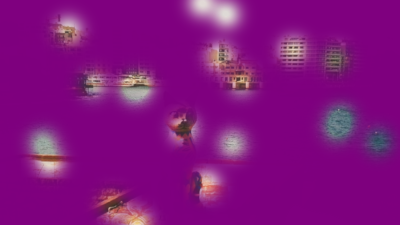
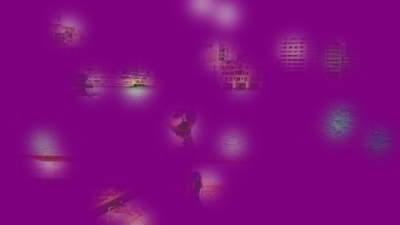
implement convolution method and mean merging

diff --git a/bubbles.py b/bubbles.py
@@ -1,9 +1,10 @@
 from PIL import Image
 import numpy as np
 from scipy.stats import norm
+from scipy.ndimage import gaussian_filter
 from skimage.morphology import binary_dilation
 
-def build_mask(mu_y, mu_x, sigma, sh, scale, max_merge):
+def build_mask(mu_y, mu_x, sigma, sh, scale, sum_merge):
     """Build a Bubbles mask which can be applied to an image of shape `sh`. Returns a matrix for the mask.
     
      Keyword arguments:
@@ -12,7 +13,7 @@ def build_mask(mu_y, mu_x, sigma, sh, scale, max_merge):
     sigma -- array of sigmas for the spread of the bubbles (should be same len as mu_y)
     sh -- shape (np.shape) of the desired mask (usually the shape of the respective image)
     scale -- should densities' maxima be consistently scaled across different sigma values?
-    max_merge -- should merges, where bubbles overlap, be completed using a simple max of the two bubbles? If False, distributions are instead summed, and then thresholded to the maxima of the pre-merged bubbles.
+    sum_merge -- should merges, where bubbles overlap, be completed using a simple sum of the bubbles, thresholded to the maxima of the pre-merged bubbles? If False (the default), densities are instead averaged (mean).
     """
     # check lengths match and are all 1d
     gauss_pars_sh = [np.shape(x) for x in [mu_y, mu_x, sigma]]
@@ -31,23 +32,64 @@ def build_mask(mu_y, mu_x, sigma, sh, scale, max_merge):
         for i in range(len(mu_y))
         ]
     
-    # scale if requested
+    # scale all bubbles consistently if requested
     if scale:
         dists = [x/np.max(x) for x in dists]
     
-    if max_merge:
-        # build mask from list of bubbles
-        mask = np.max(dists, axis=0)
-        
-    else:
+    if sum_merge:
         # sum the distributions, then threshold the maximum to the maximum peak
         mask = np.sum(dists, axis=0)
         mask[mask>np.max(dists)] = np.max(dists)
-        
-    # scale density to within [0, 1] (will already be scaled to [0, 1] above if scale==True)
-    if not scale:
-        mask /= np.max(mask)
+
+    else:
+        # merge using average of densities
+        mask = np.mean(dists, axis=0)
     
+    # scale density to within [0, 1] (will already be scaled to [0, 1] above if scale==True)
+    mask /= np.max(mask)
+    
+    return(mask)
+
+def build_conv_mask(mu_y, mu_x, sigma, sh):
+    """
+    Build a Bubbles mask via convolution which can be applied to an image of shape `sh`. Returns a matrix for the mask.
+    Unlike build_mask(), build_conv_mask() requires that all sigma values are equal.
+    
+     Keyword arguments:
+    mu_y -- the locations of the bubbles centres, in numpy axis 0. Must be integers (will be rounded otherwise)
+    mu_x -- the locations of the bubbles centres, in numpy axis 1 (should be same len as mu_y). Must be integers (will be rounded otherwise)
+    sigma -- a single value for sigma, or else an array of sigmas for the spread of the bubbles (in which case, should be same len as mu_y, and should all be identical)
+    sh -- shape (np.shape) of the desired mask (usually the shape of the respective image)
+    """
+    # if sigma is given as a list, get the single value
+    if isinstance(sigma, list) | isinstance(sigma, np.ndarray):
+        sigma = np.unique(sigma)
+    
+    # if more than one sigma value, give error
+    if len(sigma)>1:
+        ValueError('for the convolution approach, sigma should be of length one, or else all values should be identical')
+
+    # check lengths for mu match and are both 1d
+    gauss_pars_sh = [np.shape(x) for x in [mu_y, mu_x]]
+    gauss_pars_n_dims = [len(x) for x in gauss_pars_sh]
+    
+    if len(set(gauss_pars_sh))!=1 or any(gauss_pars_n_dims)!=1:
+        ValueError('mu_y and mu_x should both be 1-dimensional arrays of identical length')
+
+    # generate the pre-convolution mask
+    mask_preconv = np.zeros(sh)
+
+    mask_preconv[
+        np.array(mu_y).astype(int),
+        np.array(mu_x).astype(int)
+        ] = 1
+
+    # apply the filter via scipy.signal.gaussian_filter (uses a series of 1d convolutions)
+    mask = gaussian_filter(mask_preconv, sigma=float(sigma), mode='constant', cval=0.0)
+
+    # scale the mask
+    mask /= np.max(mask)
+
     return(mask)
 
 
@@ -84,7 +126,7 @@ def apply_mask(im, mask, bg=0):
     return(im_out_mat)
 
 
-def bubbles_mask (im, mu_x=None, mu_y=None, sigma=np.repeat(25, repeats=5), bg=0, scale=True, max_merge=False):
+def bubbles_mask (im, mu_x=None, mu_y=None, sigma=np.repeat(25, repeats=5), bg=0, scale=True, sum_merge=False):
     """Apply the bubbles mask to a given PIL image. Returns the edited PIL image, the generated mask, mu_y, mu_x, and sigma.
     
      Keyword arguments:
@@ -94,7 +136,7 @@ def bubbles_mask (im, mu_x=None, mu_y=None, sigma=np.repeat(25, repeats=5), bg=0
     sigma -- array of sigmas for the spread of the bubbles. `n` is inferred from this array
     bg -- value for the background, from 0 to 255. Can also be an array of 3 values from 0 to 255, for RGB, or 4 values, for RGBA
     scale -- should densities' maxima be consistently scaled across different sigma values?
-    max_merge -- should merges, where bubbles overlap, be completed using a simple max of the two bubbles? If False (the default), distributions are instead summed, and then thresholded to the maxima of the pre-merged bubbles.
+    sum_merge -- should merges, where bubbles overlap, be completed using a simple sum of the bubbles, thresholded to the maxima of the pre-merged bubbles? If False (the default), densities are instead averaged (mean).
     """
     
     n = len(sigma)  # get n bubbles
@@ -108,7 +150,7 @@ def bubbles_mask (im, mu_x=None, mu_y=None, sigma=np.repeat(25, repeats=5), bg=0
         mu_x = np.random.uniform(low=0, high=sh[1], size=n)
     
     # build mask
-    mask = build_mask(mu_y=mu_y, mu_x=mu_x, sigma=sigma, sh=sh, scale=scale, max_merge=max_merge)
+    mask = build_mask(mu_y=mu_y, mu_x=mu_x, sigma=sigma, sh=sh, scale=scale, sum_merge=sum_merge)
     
     # apply mask
     im_out_mat = apply_mask(im=im, mask=mask, bg=bg)
@@ -118,7 +160,39 @@ def bubbles_mask (im, mu_x=None, mu_y=None, sigma=np.repeat(25, repeats=5), bg=0
     return(im_out, mask, mu_x, mu_y, sigma)
 
 
-def bubbles_mask_nonzero (im, ref_im=None, sigma = np.repeat(25, repeats=5), bg=0, scale=True, max_merge=False, max_sigma_from_nonzero=np.Infinity):
+def bubbles_conv_mask (im, mu_x=None, mu_y=None, sigma=np.repeat(25, repeats=5), bg=0):
+    """Apply the bubbles mask generated via convolution to a given PIL image. Returns the edited PIL image, the generated mask, mu_y, mu_x, and sigma.
+    
+     Keyword arguments:
+    im -- the PIL image to apply the bubbles mask to
+    mu_x -- x indices (axis 1 in numpy) for bubble locations - set to None (default) for random location. Must be integers (will be rounded otherwise)
+    mu_y -- y indices (axis 0 in numpy) for bubble locations - set to None (default) for random location. Must be integers (will be rounded otherwise)
+    sigma -- array of sigmas for the spread of the bubbles. `n` is inferred from this array, but all values should be identical for this method
+    bg -- value for the background, from 0 to 255. Can also be an array of 3 values from 0 to 255, for RGB, or 4 values, for RGBA
+    """
+    
+    n = len(sigma)  # get n bubbles
+    sh = np.asarray(im).shape  # get shape
+    
+    # generate distributions' locations
+    if mu_y is None:
+        mu_y = np.random.randint(low=0, high=sh[0], size=n)
+    
+    if mu_x is None:
+        mu_x = np.random.randint(low=0, high=sh[1], size=n)
+    
+    # build mask
+    mask = build_conv_mask(mu_y=mu_y, mu_x=mu_x, sigma=sigma, sh=sh)
+    
+    # apply mask
+    im_out_mat = apply_mask(im=im, mask=mask, bg=bg)
+    
+    im_out = Image.fromarray(np.uint8(im_out_mat))
+    
+    return(im_out, mask, mu_x, mu_y, sigma)
+
+
+def bubbles_mask_nonzero (im, ref_im=None, sigma = np.repeat(25, repeats=5), bg=0, scale=True, sum_merge=False, max_sigma_from_nonzero=np.Infinity):
     """Apply the bubbles mask to a given PIL image, restricting the possible locations of the bubbles' centres to be within a given multiple of non-zero pixels. The image will be binarised to be im<=bg gives 0, else 1, so binary dilation can be applied. Returns the edited PIL image, the generated mask, mu_y, mu_x, and sigma.
     
      Keyword arguments:
@@ -127,7 +201,7 @@ def bubbles_mask_nonzero (im, ref_im=None, sigma = np.repeat(25, repeats=5), bg=
     sigma -- array of sigmas for the spread of the bubbles. `n` is inferred from this array
     bg -- value for the background, from 0 to 255. Can also be an array of 3 values from 0 to 255, for RGB
     scale -- should densities' maxima be consistently scaled across different sigma values?
-    max_merge -- should merges, where bubbles overlap, be completed using a simple max of the two bubbles? If False (the default), distributions are instead summed, and then thresholded to the maxima of the pre-merged bubbles.
+    sum_merge -- should merges, where bubbles overlap, be completed using a simple sum of the bubbles, thresholded to the maxima of the pre-merged bubbles? If False (the default), densities are instead averaged (mean).
     max_sigma_from_nonzero -- maximum multiples of the given sigma value from the nearest nonzero (in practice, non-minimum) values that a bubble's centre can be. Can be `np.Infinity` for no restriction
     """
     
@@ -171,7 +245,7 @@ def bubbles_mask_nonzero (im, ref_im=None, sigma = np.repeat(25, repeats=5), bg=
     mu_x = [int(poss_mu[i][1][mu_idx[i]]) for i in range(len(poss_mu))] + np.random.uniform(low=-0.5, high=0.5, size=len(mu_idx))
     
     # build mask
-    mask = build_mask(mu_y=mu_y, mu_x=mu_x, sigma=sigma, sh=sh, scale=scale, max_merge=max_merge)
+    mask = build_mask(mu_y=mu_y, mu_x=mu_x, sigma=sigma, sh=sh, scale=scale, sum_merge=sum_merge)
     
     # apply mask
     im_out_mat = apply_mask(im=im, mask=mask, bg=bg)
@@ -203,7 +277,7 @@ if __name__ == "__main__":
     parser.add_argument('--unscaled', help='do not scale the densities of the bubbles to have the same maxima',
                         action='store_false')
     
-    parser.add_argument('--maxmerge', help='should merges, where bubbles overlap, be completed using a simple max of the two bubbles? If not (the default), distributions are instead summed, and then thresholded to the maxima of the pre-merged bubbles.',
+    parser.add_argument('--summerge', help='sum_merge -- should merges, where bubbles overlap, be completed using a simple sum of the bubbles, thresholded to the maxima of the pre-merged bubbles? If not (the default), densities are instead averaged (mean).',
                         action='store_true')
     
     parser.add_argument('--seed', help='random seed to use', action='store', type=int)
@@ -214,7 +288,7 @@ if __name__ == "__main__":
         np.random.seed(args.seed)
     
     im = Image.open(args.input)
-    im_out = bubbles_mask(im=im, mu_x=args.mu_x, mu_y=args.mu_y, sigma=args.sigma, bg=args.background, scale=args.unscaled, max_merge=args.maxmerge)[0]
+    im_out = bubbles_mask(im=im, mu_x=args.mu_x, mu_y=args.mu_y, sigma=args.sigma, bg=args.background, scale=args.unscaled, sum_merge=args.summerge)[0]
     im_out.save(args.output)
     
     

diff --git a/examples.py b/examples.py
@@ -30,6 +30,33 @@ fig.savefig(op.join('examples', 'face1_mask.png'), dpi=100, bbox_inches='tight')
 face2 = bubbles.bubbles_mask(im=face, mu_x=[85, 186.7], mu_y=[182.5, 182.5], sigma=[20, 10], bg=127)[0]
 face2.save(op.join('examples', 'face2.png'))
 
+# %% Example 3 - compare to convolution method
+
+mu_x = [70, 21, 47, 254, 193]
+mu_y = [190, 102, 219, 63, 80]
+sigma = [20,20,20,20,20]
+
+face3a, mask3a, _, _, _ = bubbles.bubbles_mask(im=face, mu_x=mu_x, mu_y=mu_y, sigma=sigma, bg=127)
+face3b, mask3b, _, _, _ = bubbles.bubbles_conv_mask(im=face, mu_x=mu_x, mu_y=mu_y, sigma=sigma, bg=127)
+
+face3a.save(op.join('examples', 'face3a.png'))
+face3b.save(op.join('examples', 'face3b.png'))
+
+fig = plt.figure(figsize=(4.35, 5))
+plt.imshow(mask3a)
+plt.colorbar()
+fig.savefig(op.join('examples', 'face3a_mask.png'), dpi=80, bbox_inches='tight')
+
+fig = plt.figure(figsize=(4.35, 5))
+plt.imshow(mask3b)
+plt.colorbar()
+fig.savefig(op.join('examples', 'face3b_mask.png'), dpi=80, bbox_inches='tight')
+
+fig = plt.figure(figsize=(4.35, 5))
+plt.imshow(mask3a-mask3b)
+plt.colorbar()
+fig.savefig(op.join('examples', 'face3_mask_diff.png'), dpi=80, bbox_inches='tight')
+
 # %% Example 3 - letter a
 
 a = Image.open(op.join('img', 'a.png'))
@@ -69,10 +96,10 @@ mu_x = [20, 30, 90]
 sigma = [5, 10, 7.5]
 sh = (100, 100)
 
-masks = [bubbles.build_mask(mu_y, mu_x, sigma, sh, scale=True, max_merge=False),
-         bubbles.build_mask(mu_y, mu_x, sigma, sh, scale=True, max_merge=True),
-         bubbles.build_mask(mu_y, mu_x, sigma, sh, scale=False, max_merge=False),
-         bubbles.build_mask(mu_y, mu_x, sigma, sh, scale=False, max_merge=True)]
+masks = [bubbles.build_mask(mu_y, mu_x, sigma, sh, scale=True, sum_merge=False),
+         bubbles.build_mask(mu_y, mu_x, sigma, sh, scale=True, sum_merge=True),
+         bubbles.build_mask(mu_y, mu_x, sigma, sh, scale=False, sum_merge=False),
+         bubbles.build_mask(mu_y, mu_x, sigma, sh, scale=False, sum_merge=True)]
 
 for i in range(4):
     fig = plt.figure(figsize=(3, 2.5))

diff --git a/README.md b/README.md
@@ -76,6 +76,51 @@ face2.show()
 
 ![](examples/face2.png)
 
+## Using a Convolution-Based Method
+
+Previous implementations I've seen have used a convolution-based approach, where bubble locations are convolved with a Gaussian kernel. This is also available, with the `build_conv_mask()` and `bubbles_conv_mask()` functions. Key differences are that:
+* Sigma values must be identical for all bubbles, as one kernel is applied globally
+* Locations of `x` and `y` must be integers (rounded if floats) so that bubble precision is limited by resolution of the image
+
+Here is a comparison of the methods:
+
+```python
+mu_x = [85, 21, 47, 254, 193]
+mu_y = [186, 102, 219, 63, 80]
+sigma = [20, 20, 20, 20, 20]
+
+# method using outer products of Gaussian densities
+face3a, mask3a, _, _, _ = bubbles.bubbles_mask(im=face, mu_x=mu_x, mu_y=mu_y, sigma=sigma, bg=127)
+
+# method using convolution with Gaussian kernel
+face3b, mask3b, _, _, _ = bubbles.bubbles_conv_mask(im=face, mu_x=mu_x, mu_y=mu_y, sigma=sigma, bg=127)
+
+# compare faces
+face3a.show(); face3b.show()
+```
+
+![](examples/face3a.png)
+![](examples/face3b.png)
+
+```python
+# compare masks
+plt.imshow(mask3a); plt.colorbar()
+plt.imshow(mask3b); plt.colorbar()
+```
+
+![](examples/face3a_mask.png)
+![](examples/face3b_mask.png)
+
+There are only small differences in the approaches, owing to (I think?) imprecision in the FFT:
+
+```python
+plt.imshow(mask3a-mask3b)
+plt.colorbar()
+```
+
+![](examples/face3_mask_diff.png)
+
+This means that with reasonable rounding of the masks, the approaches would be functionally equivalent, except that the method using the outer product of densities is (a) more precise, and (b) supports bubbles of different sizes.
 
 ## Avoiding Uninformative Locations
 
@@ -137,9 +182,9 @@ cat.show(); cat1.show(); cat2.show(); cat3.show()
 
 ## Bubble Merging Method
 
-An advantage of this approach is that bubbles of different sizes can be merged. An alternative approach could be convolution of a binary matrix for the *mu* locations with a gaussian kernel. By default, this implementation sums the bubbles, and applies a threshold, which was the pre-sum maximum across the bubbles. An alternative may be to take the maximum. Similarly, the method scales bubbles by default, where an alternative would be to leave the bubbles unscaled.
+An advantage of this approach is that bubbles of different sizes can be merged. By default, this implementation averages the bubbles and scales the result to within [0, 1]. An alternative may be to take the sum and apply a threshold of the pre-sum maximum across the bubbles. Similarly, the method scales bubbles by default, so that bubbles of different sigma have equal maxima in their densities, where an alternative would be to leave the bubbles unscaled.
 
-Here is a visualisation of the possible options in mask construction, using `max_merge` and `scale` arguments, which can be passed to `bubble_mask()`:
+Here is a visualisation of the possible options in mask construction, using `sum_merge` and `scale` arguments, which can be passed to `bubble_mask()`:
 
 ```python
 # same bubble parameters for all masks
@@ -149,10 +194,10 @@ sigma = [5, 10, 7.5]
 sh = (100, 100)
 
 # plot all mask options (the first is the default)
-masks = [bubbles.build_mask(mu_y, mu_x, sigma, sh, scale=True, max_merge=False),
-         bubbles.build_mask(mu_y, mu_x, sigma, sh, scale=True, max_merge=True),
-         bubbles.build_mask(mu_y, mu_x, sigma, sh, scale=False, max_merge=False),
-         bubbles.build_mask(mu_y, mu_x, sigma, sh, scale=False, max_merge=True)]
+masks = [bubbles.build_mask(mu_y, mu_x, sigma, sh, scale=True, sum_merge=False),
+         bubbles.build_mask(mu_y, mu_x, sigma, sh, scale=True, sum_merge=True),
+         bubbles.build_mask(mu_y, mu_x, sigma, sh, scale=False, sum_merge=False),
+         bubbles.build_mask(mu_y, mu_x, sigma, sh, scale=False, sum_merge=True)]
 
 for i in range(4):
     plt.imshow(masks[i])
@@ -173,29 +218,31 @@ python bubbles.py --help
 ```
 
 ```
-usage: bubbles.py [-h] -i INPUT -o OUTPUT -s SIGMA [SIGMA ...] [-x MU_X [MU_X ...]] [-y MU_Y [MU_Y ...]]
-                  [-b BACKGROUND [BACKGROUND ...]] [--unscaled] [--maxmerge] [--seed SEED]
+usage: bubbles.py [-h] -i INPUT -o OUTPUT -s SIGMA [SIGMA ...] [-x MU_X [MU_X ...]]
+                  [-y MU_Y [MU_Y ...]] [-b BACKGROUND [BACKGROUND ...]] [--unscaled]
+                  [--summerge] [--seed SEED]
 
-optional arguments:
+options:
   -h, --help            show this help message and exit
   -i INPUT, --input INPUT
                         the file path for the input image
   -o OUTPUT, --output OUTPUT
                         the path of the desired output file
   -s SIGMA [SIGMA ...], --sigma SIGMA [SIGMA ...]
-                        a list of sigmas for the bubbles, in space-separated format (e.g., "10 10 15")
+                        a list of sigmas for the bubbles, in space-separated format (e.g., "10
+                        10 15")
   -x MU_X [MU_X ...], --mu_x MU_X [MU_X ...]
-                        x indices (axis 1 in numpy) for bubble locations, in space-separated format - leave
-                        blank (default) for random location
+                        x indices (axis 1 in numpy) for bubble locations, in space-separated
+                        format - leave blank (default) for random location
   -y MU_Y [MU_Y ...], --mu_y MU_Y [MU_Y ...]
-                        y indices (axis 0 in numpy) for bubble locations, in space-separated format - leave
-                        blank (default) for random location
+                        y indices (axis 0 in numpy) for bubble locations, in space-separated
+                        format - leave blank (default) for random location
   -b BACKGROUND [BACKGROUND ...], --background BACKGROUND [BACKGROUND ...]
-                        the desired background for the image, as a single integer from 0 to 255 (default=0), or
-                        space-separated values for each channel in the image
+                        the desired background for the image, as a single integer from 0 to 255
+                        (default=0), or space-separated values for each channel in the image
   --unscaled            do not scale the densities of the bubbles to have the same maxima
-  --maxmerge            should merges, where bubbles overlap, be completed using a simple max of the two
-                        bubbles? If not (the default), distributions are instead summed, and then thresholded
-                        to the maxima of the pre-merged bubbles.
+  --summerge            sum_merge -- should merges, where bubbles overlap, be completed using a
+                        simple sum of the bubbles, thresholded to the maxima of the pre-merged
+                        bubbles? If not (the default), densities are instead averaged (mean).
   --seed SEED           random seed to use
 ```
